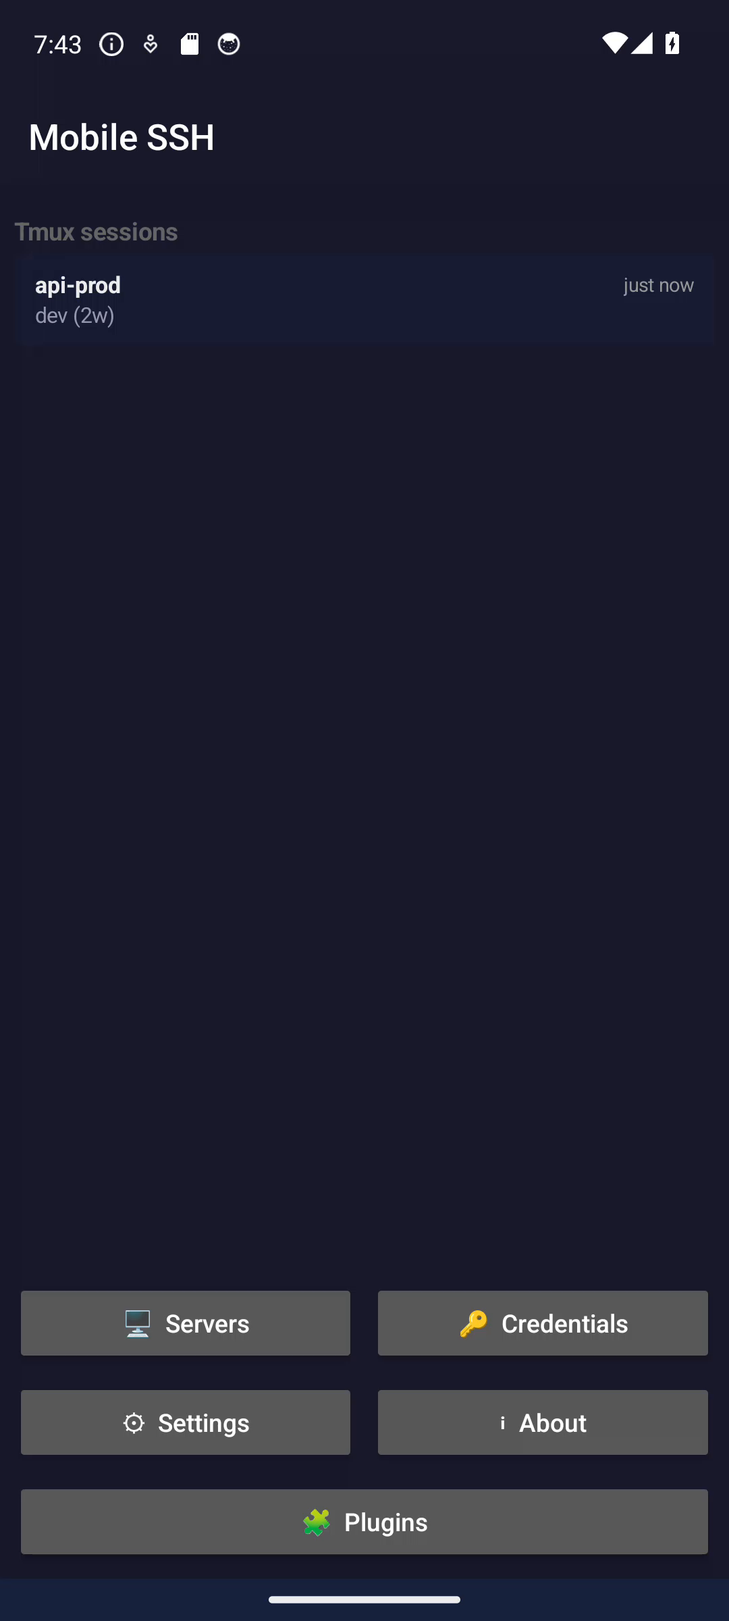
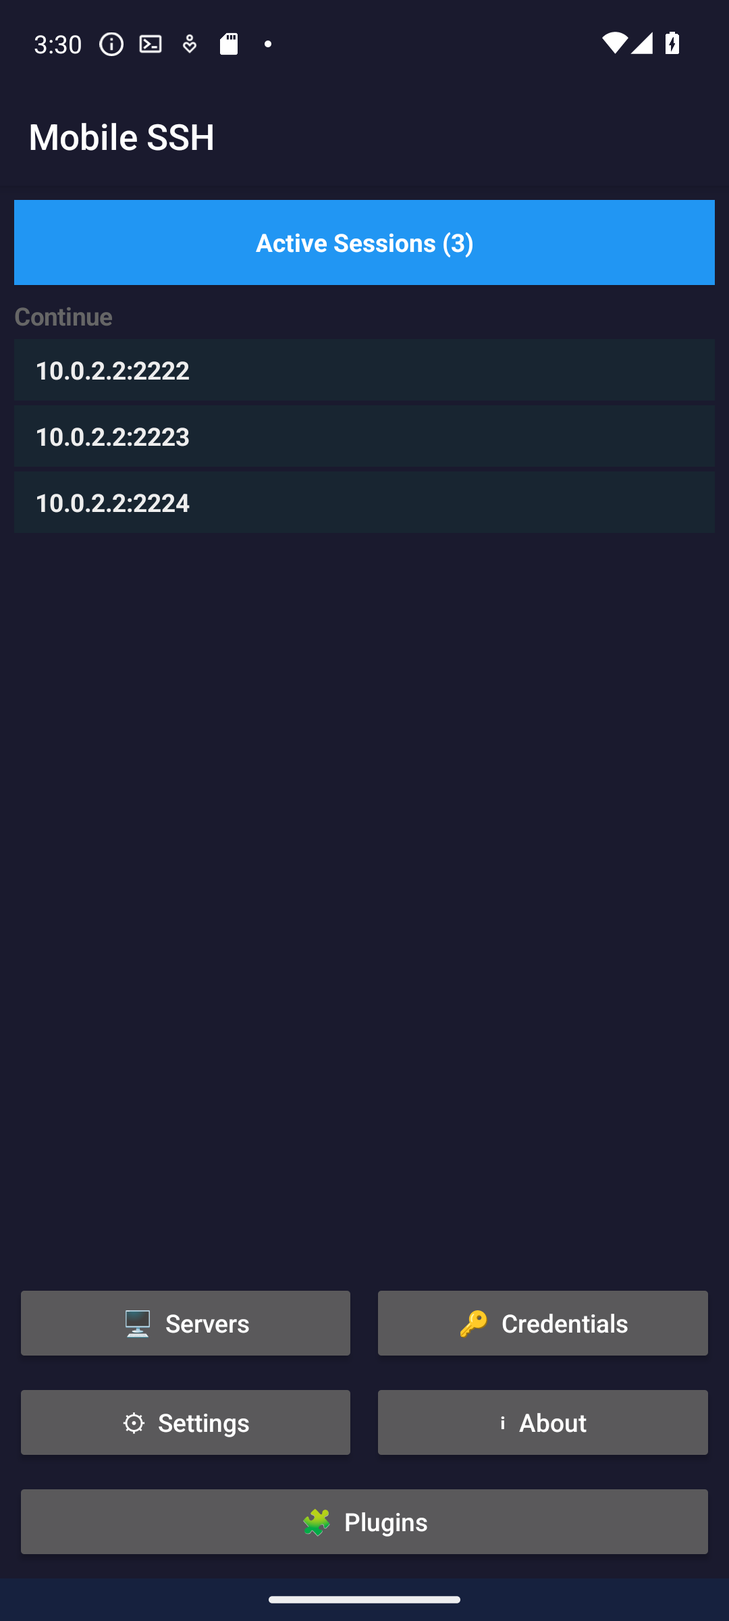
Recapture nine Android screenshots on 2.13.7, and fix what they were saying
The gallery was mostly May and June: twelve of sixteen Android shots predated
the toolbar rewrite, so the strip advertised controls that no longer exist —
a "Tunnels" button removed in f7c4272, a "1 session" counter replaced by Home
in e43571e, a text "Transfer" that became an icon in 7b0ea32.

Two were worse than stale.

phone-10-links.png was a FAILED CAPTURE, shipped and live: a black pane behind
an orange "Reconnecting 10.0.2.2 (attempt 4/10 (8s))…", carrying alt text that
promises https:// URLs underlined as tappable links. There were no links in it.
Its script waited a flat eight seconds and asserted nothing.

phone-03-terminal.png — the hero, and the poster for the Android demo video —
was 36% soft keyboard, 20% dead black, and had `aaxzzzzzz` typed at the prompt.

phone-06-about.png advertised Version 1.7 (13) and License MIT. The app is
2.13.7 (53) under Apache-2.0 (4897bb3). That one was a factual claim about
licensing, on the page people check licensing on.

Recaptured: 01-main, 02-addserver, 03-terminal, 05-transfer, 06-about,
07-keygen, 08-pubkey, 09-groups, 10-links. Getting there needed four fixes to
the capture tooling, which had drifted from the app it drives (that work is in
android-ssh-screen-capture, not here):

  - "Servers" matched the empty-state text "Open Servers to connect." before it
    matched the button, so a fresh install tapped a label and every later step
    failed while the run still exited 0.
[…]

diff --git a/src/i18n/dict/ta.ts b/src/i18n/dict/ta.ts
@@ -123,9 +123,9 @@ export const ta: Dict = {
     betaOr: "அல்லது மின்னஞ்சல் அனுப்புங்கள்",
     betaRequest: "தனியார் பீட்டா அணுகலை கோர",
     galleryAlts: [
-      "Android தொலைபேசியில் Mobile SSH முகப்புத் திரை; சேமிக்கப்பட்ட சர்வரில் காத்திருக்கும் tmux அமர்வுகளை பட்டியலிடுகிறது, அதற்குக் கீழே சர்வர்கள், சான்றுகள், அமைப்புகள், பற்றி மற்றும் சொருகிகள் பொத்தான்கள்.",
-      "தொலைபேசியில் சர்வரை சேர் உரையாடல்; ஹோஸ்ட், போர்ட், சான்றுகள், தனிப்பட்ட கீ மற்றும் போர்ட் முன்னோடல் புலங்களுடன்.",
-      "தொலைபேசியில் ஒற்றை அமர்வு SSH டெர்மினல்; கீழே கூடுதல் கீ வரிசையுடன்.",
+      "Android தொலைபேசியில் Mobile SSH முகப்புத் திரை; செயலில் உள்ள அமர்வுகள் பட்டையும், சேமித்த சர்வர்களைத் தொடரும் பட்டியலும், அவற்றுக்குக் கீழே சர்வர்கள், சான்றுகள், அமைப்புகள், பற்றி மற்றும் செருகுநிரல்கள் பொத்தான்கள்.",
+      "தொலைபேசியில் சர்வரை சேர் உரையாடல்; சர்வர் பெயர், ஹோஸ்ட் மற்றும் போர்ட், கூடுதல் முகவரிகள், சான்றுகள், தனிப்பட்ட கீ மற்றும் போர்ட் முன்னனுப்பல் புலங்களுடன்.",
+      "தொலைபேசியில் ஒற்றை அமர்வு SSH டெர்மினல்; அமர்வு கருவிப்பட்டைக்குக் கீழே ஒரு நிரலாக்க முகவரின் திருத்தமும் வெற்றிபெற்ற சோதனையும் தெரிகின்றன.",
       "தொலைபேசியில் இரண்டு SSH அமர்வுகள் பக்கத்திற்கு பக்கம் பிரித்த காட்சியில்.",
       "தொலைபேசியில் இரண்டு SSH அமர்வுகள் செங்குத்தாக அடுக்கப்பட்டு, செயலில் உள்ள பேனல் சிறப்பிக்கப்பட்டது.",
       "தொலைபேசியில் SFTP கோப்பு மாற்ற திரை; எனது தொலைபேசி மற்றும் தொலைதூர ஹோஸ்ட் பேனல்களுடன்.",

diff --git a/src/i18n/dict/te.ts b/src/i18n/dict/te.ts
@@ -124,9 +124,9 @@ export const te: Dict = {
     betaOr: "లేదా ఇమెయిల్ చేయండి",
     betaRequest: "ప్రైవేట్ బీటా యాక్సెస్ అభ్యర్థించడానికి",
     galleryAlts: [
-      "Android ఫోన్లో Mobile SSH హోమ్ స్క్రీన్; సేవ్ చేసిన సర్వర్లో వేచి ఉన్న tmux సెషన్ల జాబితా, దాని కింద సర్వర్లు, క్రెడెన్షియల్స్, సెట్టింగ్లు, గురించి మరియు ప్లగిన్ల బటన్లు.",
-      "ఫోన్లో Add Server డైలాగ్; హోస్ట్, పోర్ట్, క్రెడెన్షియల్స్, ప్రైవేట్ కీ మరియు పోర్ట్ ఫార్వార్డ్ ఫీల్డ్లతో.",
-      "ఫోన్లో ఏక-సెషన్ SSH టర్మినల్; దిగువన అదనపు కీ వరుసతో.",
+      "Android ఫోన్లో Mobile SSH హోమ్ స్క్రీన్; క్రియాశీల సెషన్ల బ్యానర్ మరియు సేవ్ చేసిన సర్వర్లను కొనసాగించే జాబితా, వాటి కింద సర్వర్లు, క్రెడెన్షియల్స్, సెట్టింగ్లు, గురించి మరియు ప్లగిన్ల బటన్లు.",
+      "ఫోన్లో Add Server డైలాగ్; సర్వర్ పేరు, హోస్ట్ మరియు పోర్ట్, అదనపు చిరునామాలు, క్రెడెన్షియల్స్, ప్రైవేట్ కీ మరియు పోర్ట్ ఫార్వర్డ్ ఫీల్డ్లతో.",
+      "ఫోన్లో ఏక-సెషన్ SSH టర్మినల్; సెషన్ టూల్బార్ కింద ఒక కోడింగ్ ఏజెంట్ ప్యాచ్ మరియు నెగ్గిన పరీక్షలు కనిపిస్తున్నాయి.",
       "ఫోన్లో రెండు SSH సెషన్లు పక్కపక్కన స్ప్లిట్ వ్యూలో.",
       "ఫోన్లో రెండు SSH సెషన్లు నిలువుగా పేర్చబడి; క్రియాశీల ప్యానెల్ హైలైట్ చేయబడింది.",
       "ఫోన్లో SFTP ఫైల్ బదిలీ స్క్రీన్; నా ఫోన్ మరియు రిమోట్ హోస్ట్ ప్యానెల్లతో.",

diff --git a/src/i18n/dict/hi.ts b/src/i18n/dict/hi.ts
@@ -123,9 +123,9 @@ export const hi: Dict = {
     betaOr: "या ईमेल करें",
     betaRequest: "प्राइवेट बीटा एक्सेस के लिए अनुरोध करें",
     galleryAlts: [
-      "Android फ़ोन पर Mobile SSH होम स्क्रीन, जो किसी सहेजे गए सर्वर पर चल रहे tmux सेशन की सूची दिखाती है, और उसके नीचे सर्वर, क्रेडेंशियल, सेटिंग्स, जानकारी और प्लगइन के बटन हैं।",
-      "फ़ोन पर सर्वर जोड़ें संवाद: होस्ट, पोर्ट, क्रेडेंशियल, प्राइवेट की और पोर्ट फ़ॉरवर्ड क्षेत्र।",
-      "फ़ोन पर एकल-सेशन SSH टर्मिनल, नीचे अतिरिक्त कुंजी पंक्ति के साथ।",
+      "Android फ़ोन पर Mobile SSH होम स्क्रीन, जिसमें सक्रिय सेशन की पट्टी और सहेजे गए सर्वरों की «जारी रखें» सूची है, और उनके नीचे सर्वर, क्रेडेंशियल, सेटिंग्स, जानकारी और प्लगइन के बटन।",
+      "फ़ोन पर सर्वर जोड़ें संवाद: सर्वर का नाम, होस्ट और पोर्ट, अतिरिक्त पते, क्रेडेंशियल, प्राइवेट की और पोर्ट फ़ॉरवर्ड क्षेत्र।",
+      "फ़ोन पर एकल-सेशन SSH टर्मिनल, जिसमें सेशन टूलबार के नीचे किसी कोडिंग एजेंट का पैच और पास हुआ टेस्ट रन दिख रहा है।",
       "फ़ोन पर दो SSH सेशन साथ-साथ स्प्लिट व्यू में।",
       "फ़ोन पर दो SSH सेशन लंबवत स्तरित, सक्रिय पैनल हाइलाइट।",
       "फ़ोन पर SFTP फ़ाइल ट्रांसफ़र स्क्रीन, मेरा फ़ोन और रिमोट होस्ट पैनलों के साथ।",

diff --git a/src/i18n/dict/bn.ts b/src/i18n/dict/bn.ts
@@ -124,9 +124,9 @@ export const bn: Dict = {
     betaOr: "অথবা ইমেইল করুন",
     betaRequest: "প্রাইভেট বেটা অ্যাক্সেসের অনুরোধ করতে",
     galleryAlts: [
-      "Android ফোনে Mobile SSH হোম স্ক্রিন; একটি সংরক্ষিত সার্ভারে অপেক্ষমাণ tmux সেশনগুলোর তালিকা দেখাচ্ছে, তার নিচে সার্ভার, ক্রেডেনশিয়াল, সেটিংস, সম্পর্কে ও প্লাগইন বোতাম।",
-      "ফোনে Add Server ডায়ালগ; হোস্ট, পোর্ট, ক্রেডেনশিয়াল, প্রাইভেট কী ও পোর্ট ফরওয়ার্ড ফিল্ডসহ।",
-      "ফোনে একক-সেশন SSH টার্মিনাল; নিচে অতিরিক্ত কী সারিসহ।",
+      "Android ফোনে Mobile SSH হোম স্ক্রিন; সক্রিয় সেশনের ব্যানার আর সংরক্ষিত সার্ভারগুলোর «চালিয়ে যান» তালিকা, তার নিচে সার্ভার, ক্রেডেনশিয়াল, সেটিংস, সম্পর্কে ও প্লাগইন বোতাম।",
+      "ফোনে Add Server ডায়ালগ; সার্ভারের নাম, হোস্ট ও পোর্ট, বাড়তি ঠিকানা, ক্রেডেনশিয়াল, প্রাইভেট কী ও পোর্ট ফরওয়ার্ড ফিল্ডসহ।",
+      "ফোনে একক-সেশন SSH টার্মিনাল; সেশন টুলবারের নিচে একটি কোডিং এজেন্টের প্যাচ ও উত্তীর্ণ টেস্ট রান দেখা যাচ্ছে।",
       "ফোনে পাশাপাশি স্প্লিট ভিউতে দুটি SSH সেশন।",
       "ফোনে উপরে-নিচে সাজানো দুটি SSH সেশন; সক্রিয় প্যানেল হাইলাইটেড।",
       "ফোনে SFTP ফাইল ট্রান্সফার স্ক্রিন; আমার ফোন ও রিমোট হোস্ট প্যানেলসহ।",

diff --git a/src/i18n/dict/mr.ts b/src/i18n/dict/mr.ts
@@ -123,9 +123,9 @@ export const mr: Dict = {
     betaOr: "किंवा ईमेल करा",
     betaRequest: "खाजगी बीटा प्रवेशासाठी विनंती करण्यासाठी",
     galleryAlts: [
-      "Android फोनवर Mobile SSH मुख्य स्क्रीन; जतन केलेल्या सर्व्हरवर वाट पाहणाऱ्या tmux सेशनची यादी आणि तिच्याखाली सर्व्हर, क्रेडेन्शियल्स, सेटिंग्ज, बद्दल व प्लगइन्स ही बटणे.",
-      "फोनवर Add Server संवाद; होस्ट, पोर्ट, क्रेडेन्शियल्स, खाजगी की आणि पोर्ट फॉरवर्ड फील्डसह.",
-      "फोनवर एकल-सेशन SSH टर्मिनल; तळाशी अतिरिक्त की पंक्तीसह.",
+      "Android फोनवर Mobile SSH मुख्य स्क्रीन; सक्रिय सेशनची पट्टी आणि जतन केलेल्या सर्व्हरची «सुरू ठेवा» यादी, त्यांच्याखाली सर्व्हर, क्रेडेन्शियल्स, सेटिंग्ज, बद्दल आणि प्लगइन ही बटणे.",
+      "फोनवर Add Server संवाद; सर्व्हरचे नाव, होस्ट आणि पोर्ट, अतिरिक्त पत्ते, क्रेडेन्शियल्स, खाजगी की आणि पोर्ट फॉरवर्ड फील्डसह.",
+      "फोनवर एकल-सेशन SSH टर्मिनल; सेशन टूलबारखाली कोडिंग एजंटचा पॅच आणि उत्तीर्ण झालेली चाचणी दिसते.",
       "फोनवर दोन SSH सेशन एकमेकांशेजारी विभाजित दृश्यात.",
       "फोनवर दोन SSH सेशन उभ्या रचलेले; सक्रिय पॅनेल अधोरेखित.",
       "फोनवर SFTP फाइल हस्तांतरण स्क्रीन; माझा फोन आणि रिमोट होस्ट पॅनेलसह.",

diff --git a/src/i18n/dict/ru.ts b/src/i18n/dict/ru.ts
@@ -124,9 +124,9 @@ export const ru: Dict = {
     betaOr: "или напишите на",
     betaRequest: "чтобы запросить доступ к закрытому бета-тесту",
     galleryAlts: [
-      "Главный экран Mobile SSH на телефоне Android со списком сессий tmux, ожидающих на сохранённом сервере, над кнопками Серверы, Учётные данные, Настройки, О приложении и Плагины.",
-      "Диалог «Добавить сервер» на телефоне с полями host, port, учётные данные, приватный ключ и проброс портов.",
-      "SSH-терминал на одну сессию на телефоне с дополнительным рядом клавиш внизу.",
+      "Главный экран Mobile SSH на телефоне Android с плашкой «Активные сессии» и списком «Продолжить» из сохранённых серверов, над кнопками «Серверы», «Учётные данные», «Настройки», «О программе» и «Плагины».",
+      "Диалог «Добавить сервер» на телефоне с полями имени сервера, хоста и порта, дополнительных адресов, учётных данных, приватного ключа и проброса портов.",
+      "SSH-терминал на одну сессию на телефоне: патч кодового агента и успешно пройденные тесты, под панелью инструментов сессии.",
       "Две SSH-сессии рядом в режиме разделения экрана на телефоне.",
       "Две SSH-сессии стопкой на телефоне с выделенной активной панелью.",
       "Экран передачи файлов SFTP на телефоне с панелями «Мой телефон» и «Удалённый хост».",

diff --git a/src/i18n/dict/ar.ts b/src/i18n/dict/ar.ts
@@ -123,9 +123,9 @@ export const ar: Dict = {
     betaOr: "أو أرسل بريداً إلكترونياً إلى",
     betaRequest: "لطلب الوصول إلى النسخة التجريبية الخاصة",
     galleryAlts: [
-      "الشاشة الرئيسية في Mobile SSH على هاتف أندرويد، تعرض قائمة «جلسات tmux» المنتظِرة على خادم محفوظ، وتحتها أزرار: الخوادم، بيانات الاعتماد، الإعدادات، عن، الإضافات.",
-      "مربّع حوار «إضافة خادم» على هاتف، يعرض حقول المضيف والمنفذ وبيانات الاعتماد والمفتاح الخاص وإعادة توجيه المنافذ.",
-      "طرفية SSH بجلسة واحدة على هاتف، مع صفّ المفاتيح الإضافي في الأسفل.",
+      "الشاشة الرئيسية في Mobile SSH على هاتف أندرويد، مع شريط «الجلسات النشطة» وقائمة «متابعة» بالخوادم المحفوظة التي يمكن العودة إليها، وفوق أزرار: الخوادم، بيانات الاعتماد، الإعدادات، عن التطبيق، والإضافات.",
+      "مربّع حوار «إضافة خادم» على هاتف، بحقول اسم الخادم والمضيف والمنفذ والعناوين الإضافية وبيانات الاعتماد والمفتاح الخاص وإعادة توجيه المنافذ.",
+      "طرفية SSH بجلسة واحدة على هاتف، تعرض رقعة وكيل برمجي واختبارات ناجحة، أسفل شريط أدوات الجلسة.",
       "جلستا SSH في عرض مُقسَّم جنبًا إلى جنب على هاتف.",
       "جلستا SSH مكدّستان رأسيًا على هاتف مع تمييز اللوحة النشطة.",
       "شاشة نقل ملفات SFTP على هاتف مع لوحتي «هاتفي» و«المضيف البعيد».",

diff --git a/src/i18n/dict/arz.ts b/src/i18n/dict/arz.ts
@@ -123,9 +123,9 @@ export const arz: Dict = {
     betaOr: "أو ابعت إيميل لـ",
     betaRequest: "عشان تطلب وصول للبيتا الخاصة",
     galleryAlts: [
-      "الشاشة الرئيسية لـ Mobile SSH على موبايل Android، بتعرض قايمة جلسات tmux المستنية على سيرفر محفوظ، وتحتيها أزرار: السيرفرات، الاعتماد، الإعدادات، عن، الإضافات.",
-      "نافذة «إضافة سيرفر» على موبايل، بتظهر الحقول: المضيف، البورت، الاعتماد، المفتاح الخاص، تحويل البورتات.",
-      "ترمنال SSH بجلسة واحدة على موبايل، تحته صف الأزرار الإضافي.",
+      "الشاشة الرئيسية لـ Mobile SSH على موبايل Android، فيها شريط «الجلسات الشغالة» وقايمة «كمّل» بالسيرفرات المحفوظة اللي تقدر ترجعلها، وفوق أزرار: السيرفرات، الاعتماد، الإعدادات، عن، والإضافات.",
+      "نافذة «إضافة سيرفر» على موبايل، فيها حقول اسم السيرفر، المضيف والبورت، العناوين الزيادة، الاعتماد، المفتاح الخاص، وتحويل البورتات.",
+      "ترمنال SSH بجلسة واحدة على موبايل، بيعرض تعديل وكيل برمجي واختبارات عدّت، تحت شريط أدوات الجلسة.",
       "جلستين SSH جنب بجنب على موبايل.",
       "جلستين SSH فوق بعض على موبايل، البانل الشغّال مميّز.",
       "شاشة نقل ملفات SFTP على موبايل، فيها بانل «موبايلي» وبانل «المضيف البعيد».",

diff --git a/src/i18n/dict/ja.ts b/src/i18n/dict/ja.ts
@@ -123,9 +123,9 @@ export const ja: Dict = {
     betaOr: "またはメールで",
     betaRequest: "プライベートベータへのアクセスをリクエストする",
     galleryAlts: [
-      "Android スマートフォン上の Mobile SSH ホーム画面。保存済みサーバーで待機中の tmux セッションの一覧が、サーバー、認証情報、設定、バージョン情報、プラグインのボタンの上に表示されている。",
-      "サーバー追加ダイアログ（ホスト、ポート、認証情報、秘密鍵、ポート転送のフィールド）。",
-      "単一セッションの SSH 端末（下部に拡張キーバー付き）。",
+      "Android スマートフォン上の Mobile SSH ホーム画面。「アクティブなセッション」バナーと、再開できる保存済みサーバーの「続きから」一覧が、サーバー、認証情報、設定、バージョン情報、プラグインのボタンの上に表示されている。",
+      "サーバー追加ダイアログ（サーバー名、ホストとポート、追加アドレス、認証情報、秘密鍵、ポート転送のフィールド）。",
+      "単一セッションの SSH 端末。セッションツールバーの下に、コーディングエージェントのパッチと成功したテスト実行が表示されている。",
       "スマートフォン上で 2 つの SSH セッションを横並びのスプリット ビューで表示。",
       "スマートフォン上で 2 つの SSH セッションを縦に積み重ねて表示（アクティブ ペインを強調）。",
       "SFTP ファイル転送画面（マイフォンとリモートホストのパネル）。",

diff --git a/src/i18n/dict/ur.ts b/src/i18n/dict/ur.ts
@@ -123,9 +123,9 @@ export const ur: Dict = {
     betaOr: "یا ای میل کریں",
     betaRequest: "پرائیویٹ بیٹا رسائی کی درخواست کرنے کے لیے",
     galleryAlts: [
-      "Android فون پر Mobile SSH ہوم اسکرین جس میں محفوظ سرور پر منتظر tmux سیشنز کی فہرست ہے، اور اس کے نیچے سرورز، اسناد، ترتیبات، تعارف اور پلگ انز کے بٹن ہیں۔",
-      "فون پر Add Server ڈائلاگ؛ ہوسٹ، پورٹ، اسناد، نجی کی اور پورٹ فارورڈ فیلڈز کے ساتھ۔",
-      "فون پر سنگل سیشن SSH ٹرمینل؛ نیچے اضافی کی قطار کے ساتھ۔",
+      "Android فون پر Mobile SSH ہوم اسکرین، جس میں «فعال سیشنز» کی پٹی اور محفوظ سرورز کی «جاری رکھیں» فہرست ہے، اور اوپر سرورز، اسناد، ترتیبات، تعارف اور پلگ انز کے بٹن۔",
+      "فون پر Add Server ڈائلاگ؛ سرور کا نام، ہوسٹ اور پورٹ، اضافی پتے، اسناد، نجی کی اور پورٹ فارورڈنگ کے خانوں کے ساتھ۔",
+      "فون پر سنگل سیشن SSH ٹرمینل؛ سیشن ٹول بار کے نیچے کوڈنگ ایجنٹ کا پیچ اور کامیاب ٹیسٹ رن دکھ رہا ہے۔",
       "فون پر دو SSH سیشن ساتھ ساتھ اسپلٹ ویو میں۔",
       "فون پر دو SSH سیشن اوپر نیچے، فعال پینل نمایاں۔",
       "فون پر SFTP فائل منتقلی اسکرین؛ My Phone اور Remote Host پینلز کے ساتھ۔",

diff --git a/src/i18n/dict/fr.ts b/src/i18n/dict/fr.ts
@@ -123,9 +123,9 @@ export const fr: Dict = {
     betaOr: "ou envoyez un e-mail à",
     betaRequest: "pour demander un accès à la bêta privée",
     galleryAlts: [
-      "Écran d'accueil de Mobile SSH sur un téléphone Android affichant la liste des sessions tmux en attente sur un serveur enregistré, au-dessus des boutons Serveurs, Identifiants, Paramètres, À propos et Plugins.",
-      "Boîte de dialogue Ajouter un serveur sur un téléphone montrant les champs hôte, port, identifiants, clé privée et redirection de ports.",
-      "Terminal SSH mono-session sur un téléphone avec la rangée de touches supplémentaires en bas.",
+      "Écran d'accueil de Mobile SSH sur un téléphone Android avec une bannière Sessions actives et une liste Continuer de serveurs enregistrés à reprendre, au-dessus des boutons Serveurs, Identifiants, Réglages, À propos et Extensions.",
+      "Boîte de dialogue Ajouter un serveur sur un téléphone avec les champs nom du serveur, hôte et port, adresses supplémentaires, identifiants, clé privée et redirections de ports.",
+      "Terminal SSH mono-session sur un téléphone montrant le correctif d'un agent de code et une série de tests réussie, sous la barre d'outils de session.",
       "Deux sessions SSH dans une vue côte à côte en écran partagé sur un téléphone.",
       "Deux sessions SSH empilées verticalement sur un téléphone avec le panneau actif mis en évidence.",
       "Écran de transfert SFTP sur un téléphone avec les panneaux Mon téléphone et Hôte distant.",

diff --git a/src/i18n/dict/es.ts b/src/i18n/dict/es.ts
@@ -123,9 +123,9 @@ export const es: Dict = {
     betaOr: "o escríbenos a",
     betaRequest: "para solicitar acceso a la beta privada",
     galleryAlts: [
-      "Pantalla de inicio de Mobile SSH en un teléfono Android con la lista de sesiones de tmux que esperan en un servidor guardado, encima de los botones Servidores, Credenciales, Ajustes, Acerca de y Complementos.",
-      "Diálogo Añadir servidor en un teléfono mostrando los campos host, puerto, credenciales, clave privada y reenvío de puertos.",
-      "Terminal SSH de una sola sesión en un teléfono con la fila de teclas extra en la parte inferior.",
+      "Pantalla de inicio de Mobile SSH en un teléfono Android con un aviso de Sesiones activas y una lista Continuar de servidores guardados que retomar, encima de los botones Servidores, Credenciales, Ajustes, Acerca de y Complementos.",
+      "Diálogo Añadir servidor en un teléfono con campos de nombre del servidor, host y puerto, direcciones adicionales, credenciales, clave privada y reenvío de puertos.",
+      "Terminal SSH de una sola sesión en un teléfono mostrando el parche de un agente de programación y una tanda de pruebas superada, bajo la barra de la sesión.",
       "Dos sesiones SSH en una vista dividida en paralelo en un teléfono.",
       "Dos sesiones SSH apiladas verticalmente en un teléfono con el panel activo resaltado.",
       "Pantalla de transferencia de archivos SFTP en un teléfono con paneles Mi teléfono y Servidor remoto.",
